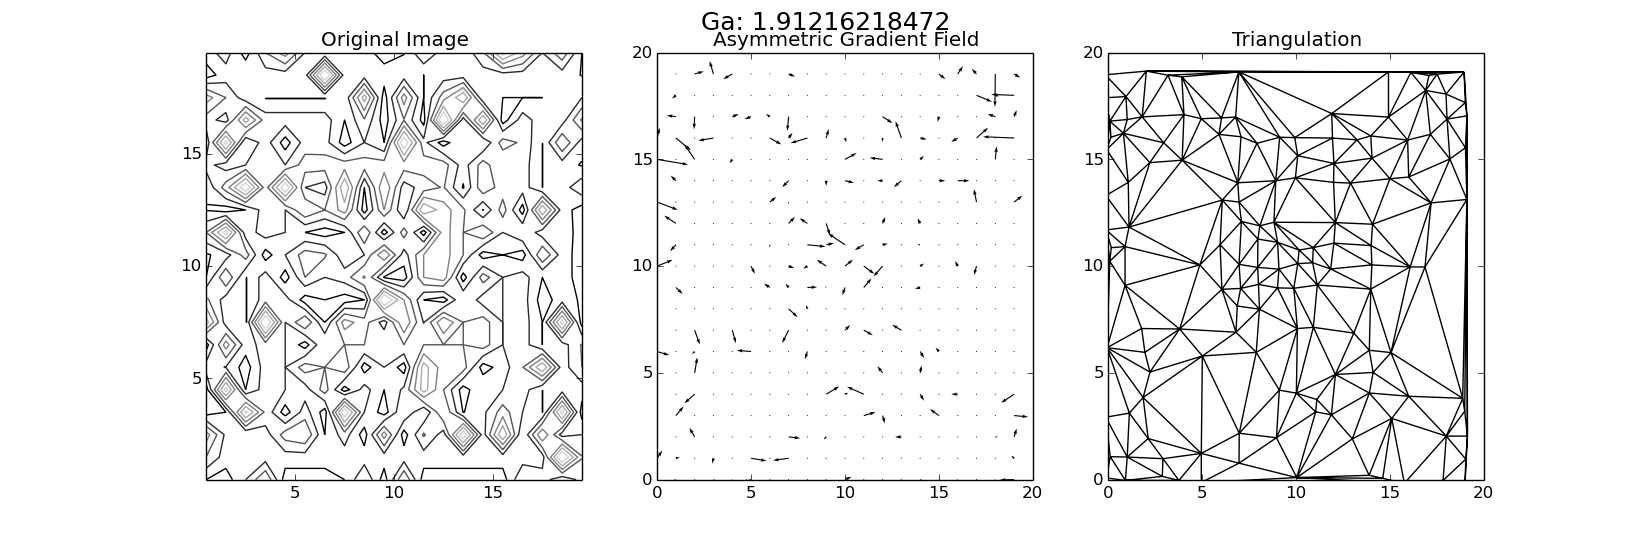
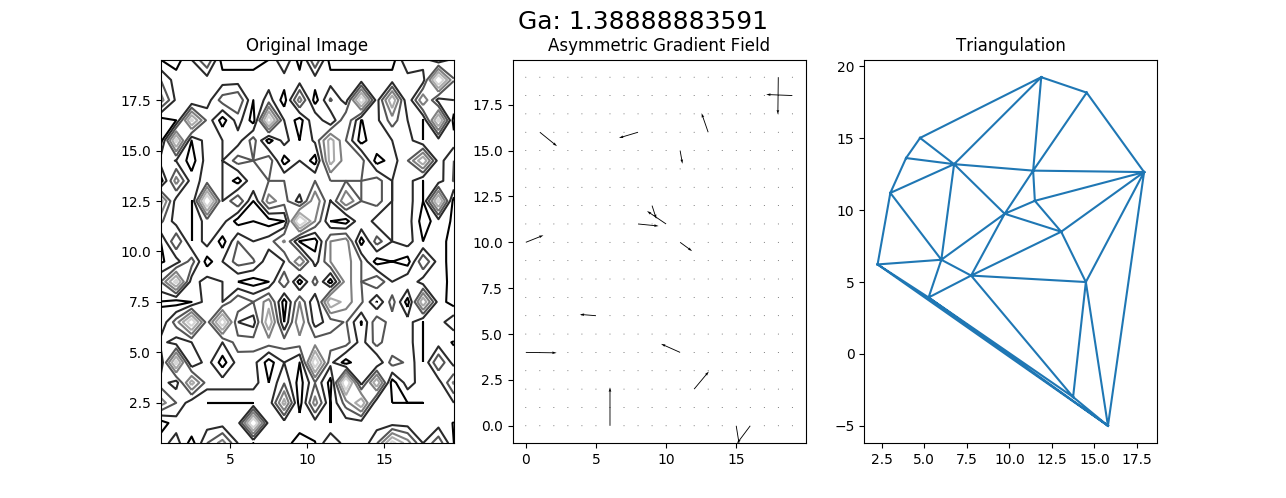
Add files via upload

diff --git a/gpa/main.py b/gpa/main.py
@@ -30,22 +30,22 @@ def invertY(m):
     return mat
     #
 def plot_matrix2(g):
-    plt.suptitle("Ga: "+str(g.G2),fontsize=18)
+    plt.suptitle("Ga: "+str(max(g.G2,g.G1)),fontsize=18)
     sbplt = plt.subplot(131)
     plt.title("Original Image")
-    plt.contour(invertY(g.mat), cmap=plt.get_cmap('gray'), origin='lower')
+    plt.contour(g.mat, cmap=plt.get_cmap('gray'), origin='lower')
 
     # plotting the asymmetric gradient field
     plt.subplot(132)
-    plt.quiver(g.gradient_asymmetric_dy,g.gradient_asymmetric_dx, scale =1.0/0.09)
+    plt.quiver(g.gradient_asymmetric_dx,g.gradient_asymmetric_dy, scale =1.0/0.01)
     plt.title("Asymmetric Gradient Field")
     #plt.title("C",fontsize=20)
 
     # plotting the triangulation
     if g.n_edges > 0:
         plt.subplot(133)
-        plt.xlim(0,len(g.mat[0]))
-        plt.ylim(0,len(g.mat))
+        #plt.xlim(0,len(g.mat[0]))
+        #plt.ylim(0,len(g.mat))
         plt.triplot(g.triangulation_points[:,0], g.triangulation_points[:,1], g.triangles.simplices.copy())
         plt.title("Triangulation")
         #plt.title("D",fontsize=20)
@@ -81,8 +81,8 @@ def plot_matrix(g):
     # plotting the triangulation
     if g.n_edges > 0:
         plt.subplot(224)
-        plt.xlim(-1,len(g.mat[0])+1)
-        plt.ylim(-1,len(g.mat)+1)
+        #plt.xlim(-1,len(g.mat[0])+1)
+        #plt.ylim(-1,len(g.mat)+1)
         plt.triplot(g.triangulation_points[:,0], g.triangulation_points[:,1], g.triangles.simplices.copy())
         plt.title("Triangulation")
         #plt.title("D",fontsize=20)
@@ -117,7 +117,7 @@ if __name__ == "__main__":
         gaObject.cx, gaObject.cy = len(inputMatrix[0])/2., len(inputMatrix)/2.
         gaObject.evaluate(tol,rad_tol,1.8,[sys.argv[1]])
         if(sys.argv[1] == "G1"):
-            print("G1 ",gaObject.G1)
+            print("Nc,Nv,G1 ",gaObject.n_edges,gaObject.n_points,gaObject.G1)
         if(sys.argv[1] == "G2"):
             print("G2 ",gaObject.G2)       
         plot_matrix2(gaObject)
